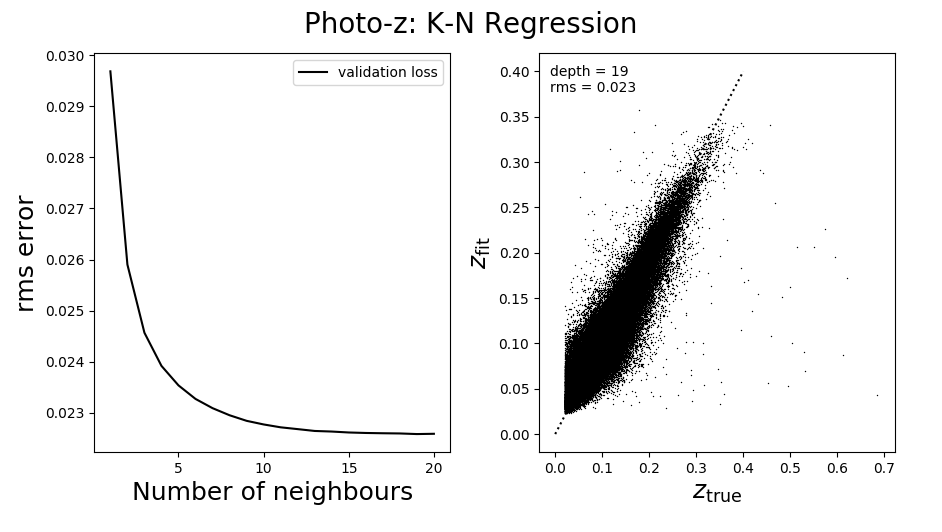
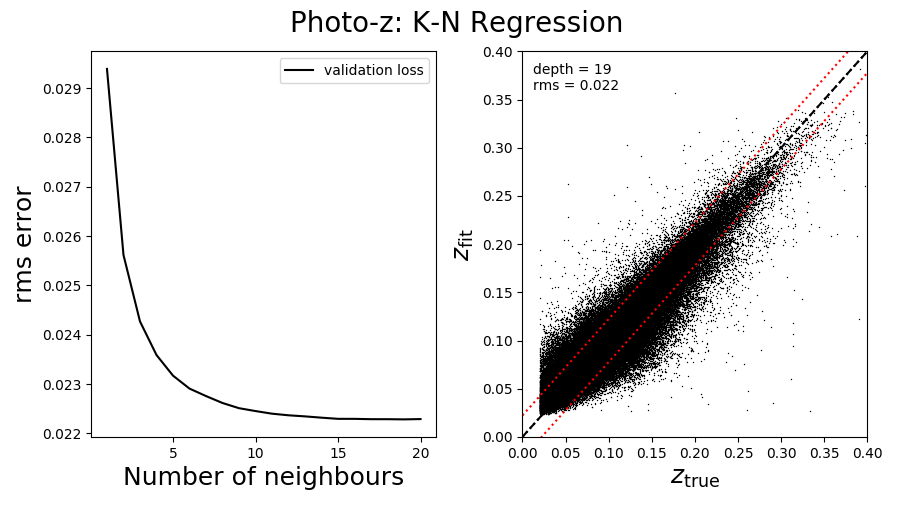
final changes

diff --git a/ann.py b/ann.py
@@ -40,7 +40,7 @@ model.add(Dense(4, activation='relu'))
 model.add(Dense(1,activation='sigmoid'))
 model.compile(loss=root_mean_squared_error, optimizer='adam')
 # history= model.fit(X_train,Y_train,nb_epoch=10,shuffle=True,validation_split=0.1)
-history = model.fit(X_train, Y_train, validation_split=0.1, epochs=3)
+history = model.fit(X_train, Y_train, validation_split=0.1, epochs=5)
 # X_fit_train = model.predict(X_train)
 # rms_train = np.mean(np.sqrt((X_fit_train.squeeze() - Y_train) ** 2))
 
@@ -52,20 +52,29 @@ rms_test = np.sqrt(np.mean((X_fit.flatten() - Y_test)**2))
 
 
 # # summarize history for loss
-# plt.plot(history.history['loss'])
-# plt.plot(history.history['val_loss'])
-# plt.title('model loss')
-# plt.ylabel('loss')
-# plt.xlabel('epoch')
-# plt.legend(['train', 'test'], loc='upper left')
-# plt.show()
+plt.plot(history.history['loss'])
+plt.plot(history.history['val_loss'])
+plt.title('model loss')
+plt.ylabel('loss')
+plt.xlabel('epoch')
+plt.legend(['train', 'test'], loc='upper left')
+plt.show()
+
+plt.figure()
 ax = plt.axes()
+axis_lim = np.array([0,0.4])
+plt.scatter(Y_test, X_fit, c='k', lw=0, s=4)
+plt.plot(axis_lim, axis_lim, '--k')
+plt.plot(axis_lim, axis_lim + rms_test, ':r')
+plt.plot(axis_lim, axis_lim - rms_test, ':r')
+plt.xlim(axis_lim)
+plt.ylim(axis_lim)
 
 plt.text(0.99, 0.02, "RMS error = %.2g" % rms_test,
          ha='right', va='bottom', transform=ax.transAxes,
          bbox=dict(ec='w', fc='w'), fontsize=16)
 
-plt.title('ANN Prediction',fontsize=20)
+plt.title('Photo-z: Artificial Neural Network',fontsize=20)
 plt.xlabel(r'$\mathrm{z_{Pred}}$', fontsize=18)
 plt.ylabel(r'$\mathrm{z_{True}}$', fontsize=18)
 plt.show()

diff --git a/randomforest.py b/randomforest.py
@@ -49,11 +49,11 @@ fig.subplots_adjust(wspace=0.25,
 
 # left panel: plot cross-validation results
 ax = fig.add_subplot(121)
-ax.plot(depth, rms_test, '-k', label='cross-validation')
-ax.plot(depth, rms_train, '--k', label='training set')
+ax.plot(depth, rms_test, '-k', label='Validation')
+ax.plot(depth, rms_train, '--k', label='Training loss')
 ax.legend(loc=1)
-
-ax.set_xlabel('Number of depth')
+axis_lim = np.array([0,0.4])
+ax.set_xlabel('Depth')
 ax.set_ylabel('rms error')
 
 ax = fig.add_subplot(122)
@@ -61,8 +61,8 @@ ax.scatter(Y_test, X_fit_best, s=1, lw=0, c='k')
 ax.plot(axis_lim, axis_lim, '--k')
 ax.plot(axis_lim, axis_lim + rms, ':r')
 ax.plot(axis_lim, axis_lim - rms, ':r')
-ax.xlim(axis_lim)
-ax.ylim(axis_lim)
+ax.set_xlim(axis_lim)
+ax.set_ylim(axis_lim)
 
 ax.plot([0, 0.4], [0, 0.4], ':k')
 ax.text(0.03, 0.97, "depth = %i\nrms = %.3f" % (best_depth, rms_test[i_best]),

diff --git a/kn_loop.py b/kn_loop.py
@@ -48,6 +48,8 @@ fig.subplots_adjust(wspace=0.25,
 
 # left panel: plot cross-validation results
 ax = fig.add_subplot(121)
+axis_lim = np.array([0,0.4])
+
 ax.plot(depth, rms_test, '-k', label='validation loss')
 # ax.plot(depth, rms_train, '--k', label='training set')
 ax.legend(loc=1)
@@ -56,7 +58,14 @@ ax.set_xlabel('Number of neighbours',fontsize=18)
 ax.set_ylabel('rms error',fontsize=18)
 
 ax = fig.add_subplot(122)
+
 ax.scatter(Y_test, X_fit_best, s=1, lw=0, c='k')
+ax.plot(axis_lim, axis_lim, '--k')
+ax.plot(axis_lim, axis_lim + rms_test[best_depth], ':r')
+ax.plot(axis_lim, axis_lim - rms_test[best_depth], ':r')
+ax.set_xlim(axis_lim)
+ax.set_ylim(axis_lim)
+
 ax.plot([0, 0.4], [0, 0.4], ':k')
 ax.text(0.03, 0.97, "depth = %i\nrms = %.3f" % (best_depth, rms_test[i_best]),
         ha='left', va='top', transform=ax.transAxes)
